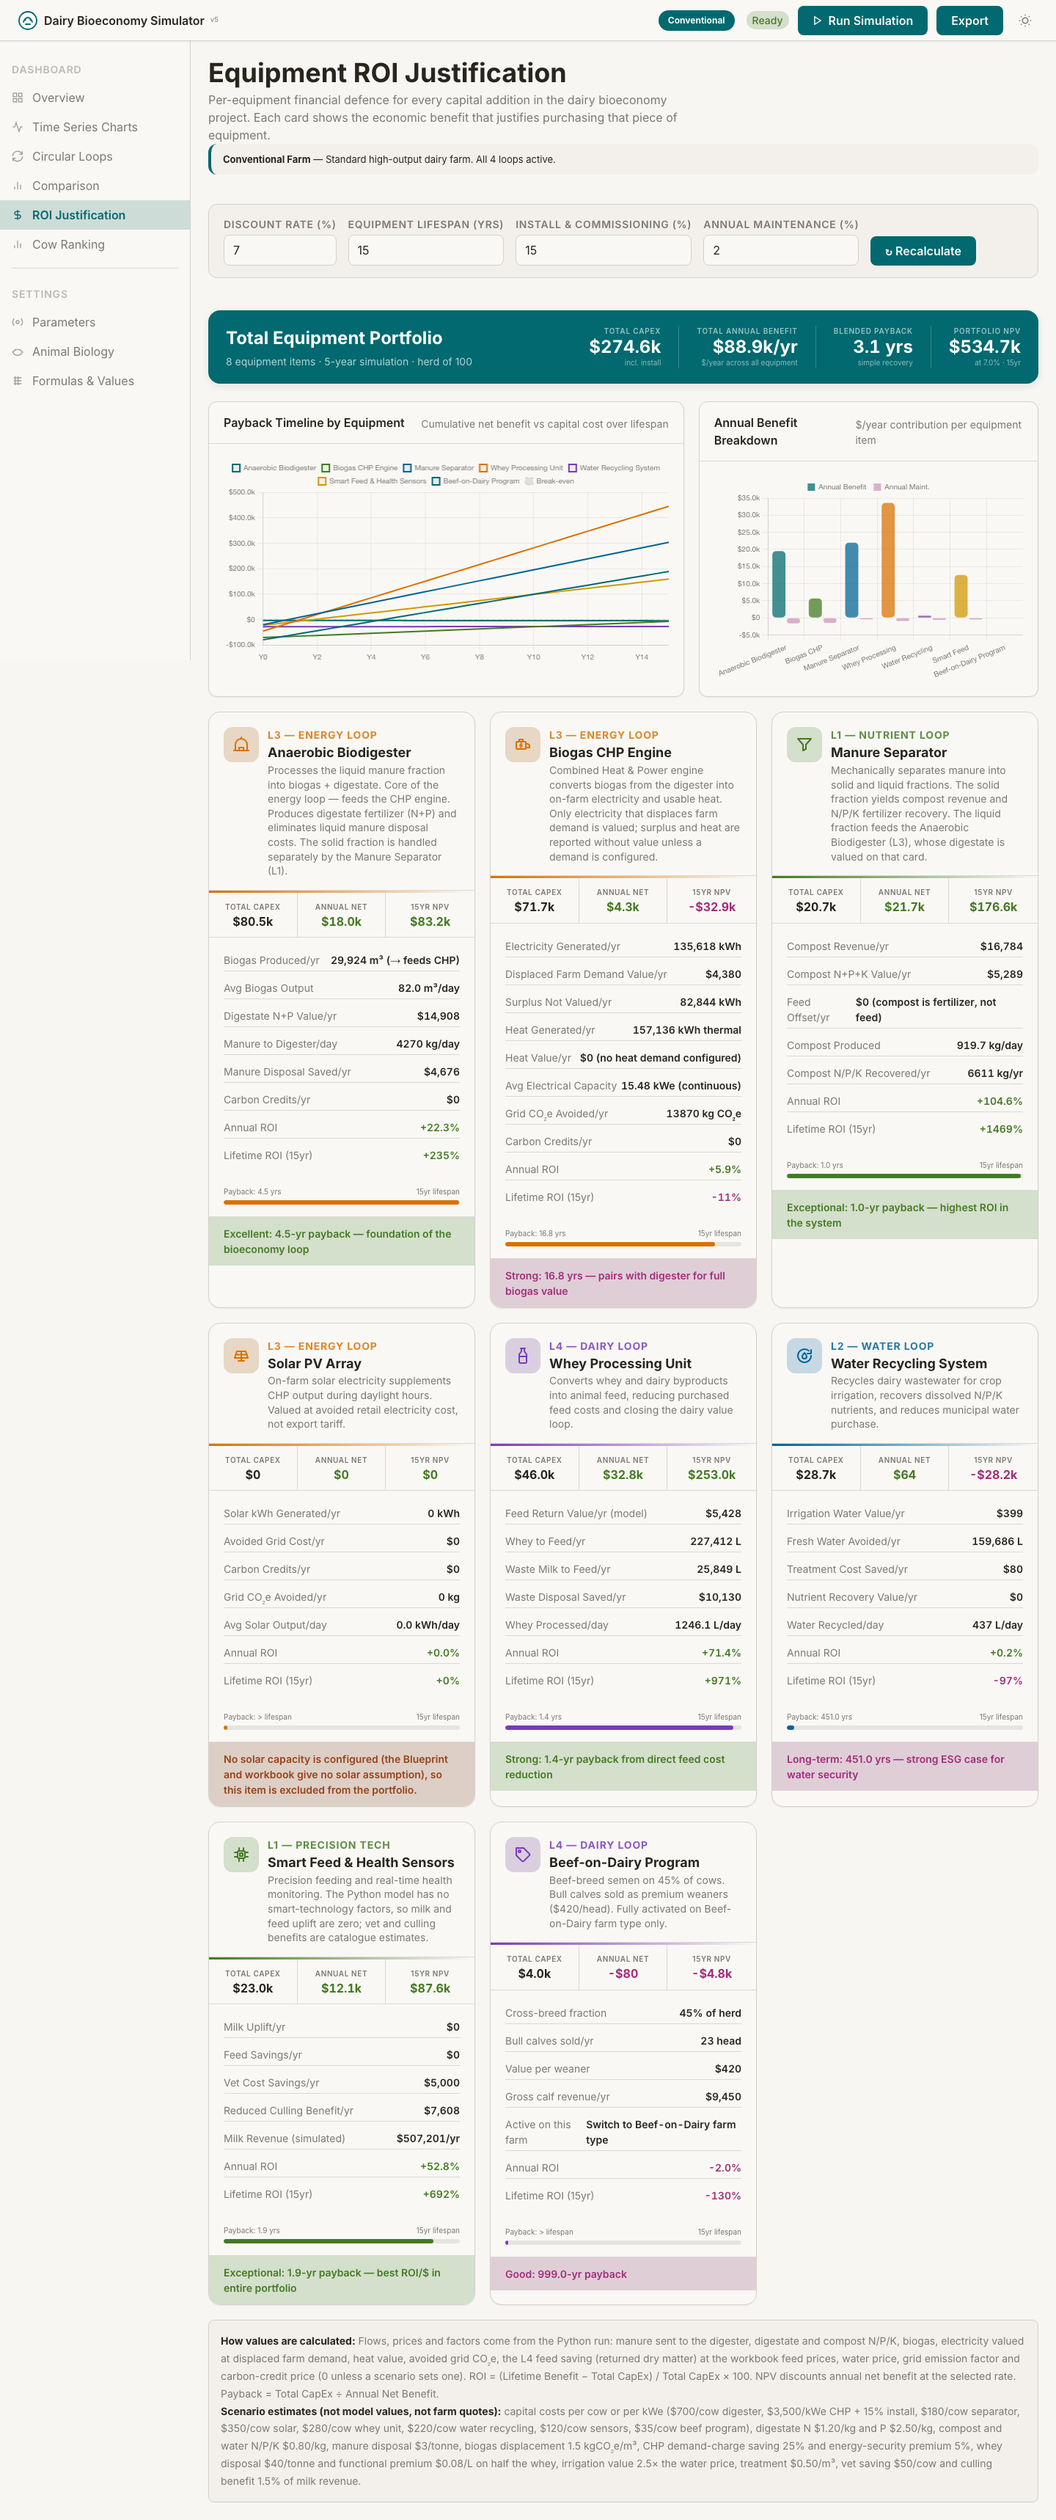
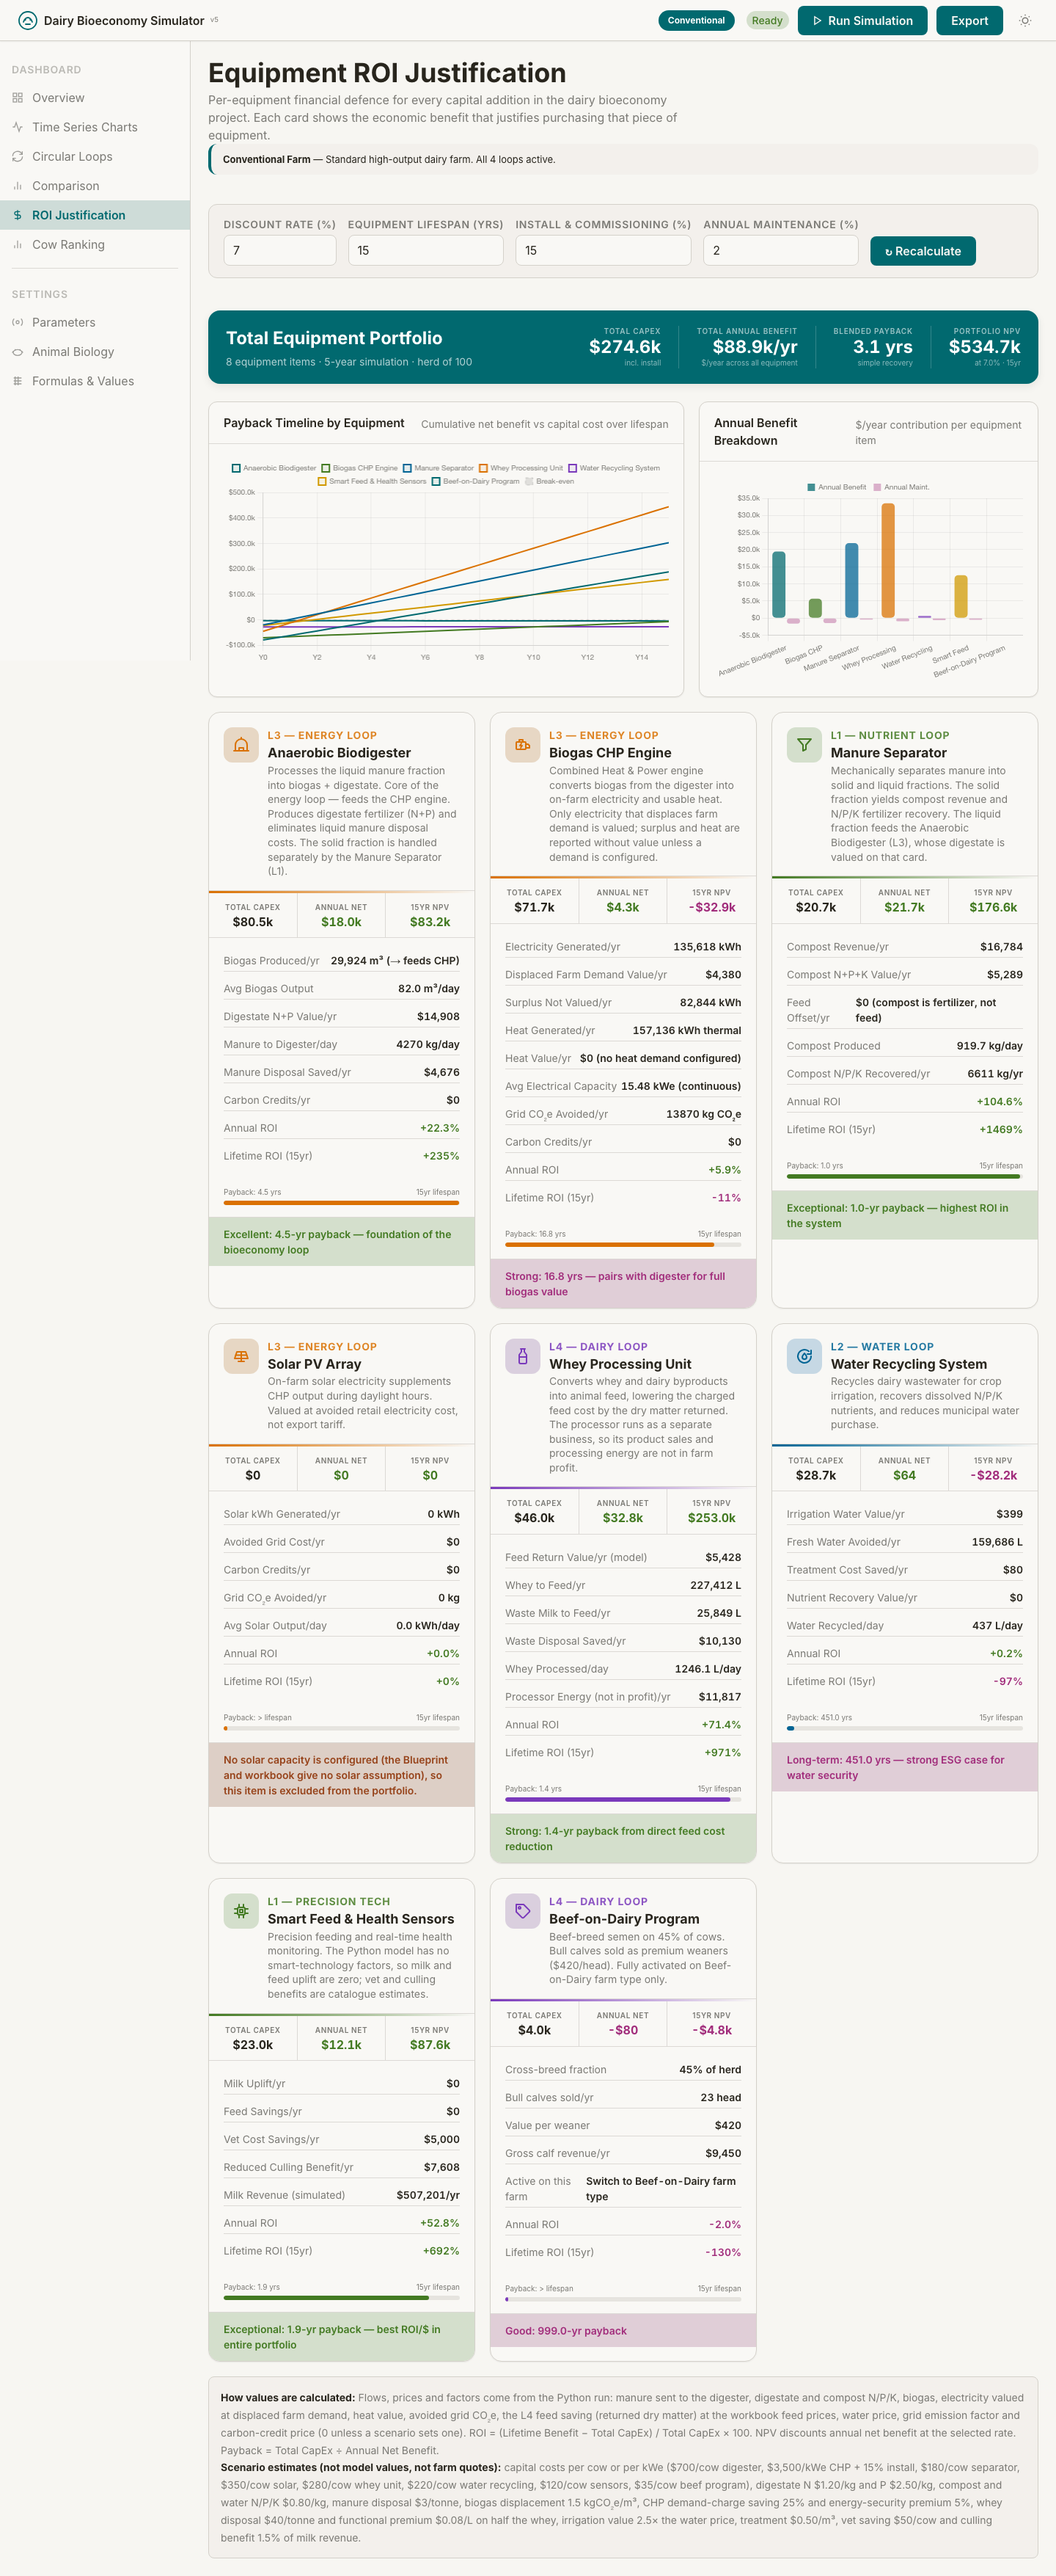
docs: record the processor-as-separate-business decision
Updates the calibration decisions, payload map, model explanation and
README for processor sales and processing energy reported outside farm
profit, and refreshes the dashboard screenshots.

Changed region(s): [[0.1875, 0.0311, 1.0, 0.9968], [0.0, 0.0311, 0.1562, 0.1557], [0.9062, 0.218, 0.9375, 0.2492]]

diff --git a/docs/calibration_review.md b/docs/calibration_review.md
@@ -19,8 +19,8 @@ Precedence is workbook, then Blueprint (`docs/parity/blueprint_extracted.txt`); 
 | Item | Decision | Source |
 |---|---|---|
 | Feed cost | The ledger charges all intake: lactating DMI x `cdairy_economics.dmi_wet_price_per_kg` (0.30) plus dry DMI x `cdairy_economics.dmi_dry_price_per_kg` (0.20). Home-grown feed carries the same price. Loop feed offsets (L4 only, see below) reduce the charged kilograms, split pro rata between lactating and dry intake. Ledger and parity path share `dairy_abm.analysis.cdairy_economics.feed_cost_rows`. | Workbook Stats_MAST!BV19, BV20; rows 28-29 |
-| Farm profit | Workbook herd economics (every Table 4 line) plus an itemized loop layer: electricity value, heat value, carbon credits, compost revenue, by-product revenue, loop feed saving, minus water, cooling, processing energy and disease cost. | Workbook Tables Table 4; Blueprint for loop items |
-| Processor revenue | Kept out of profit (`processor_revenue_not_in_profit`); farm revenue keeps the workbook milk component sales because the model has no product-side costs. The processor still runs with L4 so whey and waste milk exist. | Workbook precedence |
+| Farm profit | Workbook herd economics (every Table 4 line) plus an itemized loop layer: electricity value, heat value, carbon credits, compost revenue, by-product revenue, loop feed saving, minus water, cooling and disease cost. | Workbook Tables Table 4; Blueprint for loop items |
+| Processor (2026-09-24 decision) | The processor is treated as a separate business. Its product sales (`processor_revenue_not_in_profit`) and its processing energy (`processor_energy_cost_not_in_profit`, processing_energy_kwh x electricity price) are both reported, in the daily export and the model-details card, and neither is in farm profit. Farm revenue keeps the workbook milk component sales. Milk cooling stays in farm costs because it is a farm-side cost. No product-side costs are added because neither the workbook nor the Blueprint gives them. The processor still runs with L4 so whey and waste milk exist. | Workbook precedence; owner decision |
 | Manure routing | `manure.digester_route_fraction` 0.65, `compost_route_fraction` 0.35, `storage_route_fraction` 0.0. With L3 off the digester share goes to storage and the digester does not run (no biogas, digestate or processor residue feedstock); with L1 off the compost share goes to storage. The dashboard adapter turns off the Farm Manager's emissions-triggered reroute (an implementation rule not in the Blueprint), which otherwise sends all manure to the digester. | Target dashboard separator_solid_fraction 0.35 (owner decision); Blueprint Manure 4.2 (routing is policy-driven), Energy 2.6 (biogas_investment_active) |
 | Heat value | Not monetized. Heat is generated and reported, but no farm heat demand is configured, so `heat_value` is 0 and the UI says so. `energy.heat_value_per_kwh` (0.04, implementation) applies only if a scenario sets `farm_heat_demand_mj_per_day`. | Blueprint Energy 8.5, 2.7, 8.7 (no heat demand, recovery fraction or price); owner decision |
 | Farm electricity demand | `energy.farm_energy_demand_kwh_per_day` = 100 kWh/day stays an unsourced implementation assumption and is labelled as such. Only displaced demand is valued; surplus (about 226 kWh/day for the default farm) is reported as `surplus_energy_kwh`. | Blueprint Energy 8.2, 9, 10 (demand needs external calibration; monetize displaced share only); owner decision |
@@ -38,7 +38,6 @@ Precedence is workbook, then Blueprint (`docs/parity/blueprint_extracted.txt`); 
 
 Findings that need review but were not changed:
 
-- With product sales outside profit, L4 now nets about -$64 per cow per year for the default farm: a $55 feed saving against $118 of processing energy (`dairy_processor.processing_energy_kwh_per_l_milk`, 0.08 kWh/L, implementation). Charging the processing energy of a plant whose revenue is excluded may need a policy decision.
 - The Farm Manager's automatic feed response compares purchased-feed cash (`feed_crop_packet.feed_cost`, normally 0 because home-grown feed covers intake) with a fixed $500/day trigger; it was left on purchased cash so its behaviour did not change.
 - The processor's `dairy_return_feed_packet` still offers `feed_eligible_kg_dm` = 0.08 kg DM per litre (scenario default) as a separate supply to Feed/Crop. It is used only when own-farm feed runs short, which does not happen in the default farm, but it is a second valuation of the same whey.
 

diff --git a/docs/dashboard_metric_map.md b/docs/dashboard_metric_map.md
@@ -10,8 +10,8 @@ Historical Phase 1 inventory for the earlier twelve-page dashboard. The current 
 
 - `totals.herdRevenue`, `totals.herdCost`, `totals.herdProfit`: the Cdairy workbook herd economics (every Table 4 line) accumulated daily from the same herd statistics `annual_excel_economics` prices; with all loops off they equal it for each complete year. `totals.workbookFeedCost` is Stats_MAST rows 28-29 (all lactating and dry DMI at the workbook prices, home-grown feed included); `totals.otherHerdCost` is the rest of the herd cost.
 - `feedCost` is the charged feed cost: `workbookFeedCost - loopFeedSaving`. `loopFeedSaving` values the L4 feed offset (dry matter of whey and waste milk sent to feed) at the workbook prices; `l1FeedSaving` is 0 because the Blueprint defines no L1 feed offset. `fertilizerNSaved` and `fertilizerOffsetCO2e` report the avoided synthetic fertilizer (not monetized: no fertilizer price). `purchasedFeedCost` is the physical purchased-feed cash flow, kept for reference.
-- `totals.loopLines` lists the circular-loop layer: `electricityValue`, `heatValue`, `carbonCredits`, `compostRevenue`, `loopFeedSaving`, and the negative `waterCost`, `coolingCost`, `processingEnergyCost`, `diseaseCost`. `profit = herdProfit + loopNet`.
-- `processorRevenueNotInProfit` is the processor's product sales. It is reported only; profit keeps the workbook milk component sales because the model has no product-side costs. The processor runs with L4 so whey and waste milk exist for the by-product loop.
+- `totals.loopLines` lists the circular-loop layer: `electricityValue`, `heatValue`, `carbonCredits`, `compostRevenue`, `loopFeedSaving`, and the negative `waterCost`, `coolingCost`, `diseaseCost`. `profit = herdProfit + loopNet`.
+- `processorRevenueNotInProfit` and `processorEnergyCostNotInProfit` are the processor's product sales and processing energy. The processor is treated as a separate business, so both are reported (also in `modelDetails` and the daily export) and neither is in profit; profit keeps the workbook milk component sales. The processor runs with L4 so whey and waste milk exist for the by-product loop.
 - `surplusElec`, `displacedElec`, `farmElecDemand`: electricity is valued only up to the farm demand (implementation assumption, 100 kWh/day); the surplus is reported without value (Blueprint Energy 10). `heatDemand` is 0, so `heatVal` is 0 while `heat` is generated (Blueprint Energy 8.5).
 - `digesterManure`, `compostManure`, `digestateN/P/K`: manure routed to the digester and to compost, and digestate nutrients, used by the ROI page instead of back-calculated flows.
 - `notes` carries the on-screen reasons for series that are zero by design (`heatVal`, `solar`, `carbon`) and the energy-value limit (`energyVal`).
@@ -338,7 +338,7 @@ The current authoritative per-cow record is `ctx.packets["cow_daily_packet"].pay
 | Water cost | `ctx.daily_records` | `water_cost` | daily/run | currency | sum | `EXISTING` | Direct manager output. |
 | Disease economic cost | `ctx.daily_records` | `disease_economic_cost` | daily/run | currency | sum | `EXISTING` | Use this available category. |
 | Cooling cost | `ctx.daily_records` | `cooling_cost` | daily/run | currency | sum | `EXISTING` | Direct manager output. |
-| Processing energy cost | `ctx.daily_records` | `processing_energy_cost` | daily/run | currency | sum | `EXISTING` | Direct manager output. |
+| Processor energy cost (not in profit) | `ctx.daily_records` | `processor_energy_cost_not_in_profit` | daily/run | currency | sum | `EXISTING` | Reported beside processor revenue; excluded from farm profit (separate business). |
 | Carbon-credit revenue/value | `ctx.state["environment_history"]` | `carbon_credit_value` | daily/run | currency | sum | `BACKEND_EXPOSE` | Joined by date from the retained environment history; never inferred from GHG totals. |
 | Treatment cost | `ctx.state["disease_history"]` | `treatment_cost` | daily/run | currency | sum | `BACKEND_EXPOSE` | Kept distinct from outbreak/disease economic cost. |
 | Cumulative profit | dashboard adapter | daily `profit` | run | currency | cumulative sum | `BACKEND_AGGREGATE` | Python retains the cumulative series and final value. |

diff --git a/docs/explanation.md b/docs/explanation.md
@@ -144,7 +144,7 @@ The current runtime has 13 agent modules. Twelve are part of the normal system; 
 | **Manure** | Splits manure into digester, compost, and storage routes; tracks collection, overflow, persistent storage, N/P/K, methane/N2O-related flows, co-feed, thermochemical paths, and nutrient returns. |
 | **Energy** | Converts eligible biogas and thermochemical inputs into energy using CHP, electricity, or boiler modes. It also models solar, parasitic load, demand capping, grid displacement, heat, self-sufficiency, and energy value. |
 | **Environment** | Maintains the stream-level greenhouse-gas ledger, including positive emissions and avoided emissions. Reports net carbon, intensity, circularity, soil/fertilizer metrics, sustainability, and cumulative/monthly KPIs. |
-| **Farm Manager reporting** | Combines revenue, feed and operating costs, disease costs, cooling/processing energy costs, energy value, carbon credits, cash balance, profit, policy conflicts, recommendations, investments, ROI, and payback. |
+| **Farm Manager reporting** | Combines revenue, feed and operating costs, disease costs, milk cooling cost, processor sales and energy reported outside profit, energy value, carbon credits, cash balance, profit, policy conflicts, recommendations, investments, ROI, and payback. |
 | **Genetics** | Records daily intake quality, calculates merit and eligibility, selects parents, creates prospective offspring trait vectors, and produces annual breeding/genetic-gain reports. |
 
 ## 6. Daily execution order
@@ -186,7 +186,7 @@ The model represents four circular loops explicitly:
 - **L3 energy loop:** the switch decides whether the digester runs at all (Blueprint Energy 2.6, `biogas_investment_active`). With L3 off the liquid share goes to storage and biogas, digestate and electricity are 0. It does not alter Feed/Crop mass inputs.
 - **L4 dairy-byproduct loop:** whey and waste milk sent to feed become a next-day feed credit equal to their dry matter (whey x dry whey yield, waste milk x fat + SNF) when processor and whey processing are active.
 
-Farm profit has two layers. The herd layer is the Cdairy workbook economics (every Table 4 line), priced daily from the herd statistics with `dairy_abm.analysis.cdairy_economics`; feed is charged on all lactating and dry-cow intake at the workbook prices, home-grown feed included. The loop layer is itemized: electricity value (displaced farm demand only), heat value (0 unless a farm heat demand is configured), carbon credits, compost revenue, by-product revenue, and the L4 feed saving (returned dry matter at the workbook prices), minus water, cooling, processing energy and disease costs. Processor product sales are reported as `processor_revenue_not_in_profit` and are not added to profit. With every loop off, the herd layer equals `annual_excel_economics` for each complete year.
+Farm profit has two layers. The herd layer is the Cdairy workbook economics (every Table 4 line), priced daily from the herd statistics with `dairy_abm.analysis.cdairy_economics`; feed is charged on all lactating and dry-cow intake at the workbook prices, home-grown feed included. The loop layer is itemized: electricity value (displaced farm demand only), heat value (0 unless a farm heat demand is configured), carbon credits, compost revenue, by-product revenue, and the L4 feed saving (returned dry matter at the workbook prices), minus water, cooling and disease costs. The processor is treated as a separate business: its product sales (`processor_revenue_not_in_profit`) and processing energy (`processor_energy_cost_not_in_profit`) are reported but not in farm profit; milk cooling stays a farm cost. With every loop off, the herd layer equals `annual_excel_economics` for each complete year.
 
 The one-day delay is intentional. It prevents same-day feedback and preserves the fixed scheduler order. Credits are persistent in `SimulationContext`, consumed once by Feed/Crop, and reported in daily records.
 

diff --git a/README.md b/README.md
@@ -90,7 +90,7 @@ The local server opens the Conventional Farm dashboard directly. Its nine pages 
 
 Forty target controls are mapped to Python inputs, including herd size, duration, seed, feed cost, lactation and body-weight parameters, manure separator split, biogas and compost yield, solar, methane factor, grid emission factor, cull rate and milk-processing shares; each one changes the run. Target controls without an equivalent model input stay visible and disabled with the tooltip "Not used by the Python model" (the full lists are in `docs/dashboard_metric_map.md`). The Comparison page runs the 16 loop combinations on the server and displays the saved eight-seed Excel parity results. The ROI page keeps the target's equipment cards but takes every price, factor and flow the model has from the run; the remaining catalogue constants are listed as scenario estimates, not farm quotes. Cow Ranking uses retained model cow histories. Parameters includes read-only model details.
 
-Net profit is the workbook herd economics plus an itemized circular-loop layer. Feed is charged on all intake at the workbook prices (Stats_MAST rows 28-29), including home-grown feed, and the L4 by-product feed credit (dry matter of whey and waste milk) lowers that charge; L1 returns nutrients to cropland rather than feed. Processor product sales are shown separately and are not part of profit. Electricity is valued only up to the farm demand, with surplus kWh reported; heat is reported but not valued because no farm heat demand is configured; no solar capacity is configured by default. These limits are stated on the dashboard cards. Water, nutrient, and byproduct labels retain their source units; unavailable values are shown as unavailable rather than converted without a coefficient.
+Net profit is the workbook herd economics plus an itemized circular-loop layer. Feed is charged on all intake at the workbook prices (Stats_MAST rows 28-29), including home-grown feed, and the L4 by-product feed credit (dry matter of whey and waste milk) lowers that charge; L1 returns nutrients to cropland rather than feed. The processor is treated as a separate business: its product sales and processing energy are shown separately and are not part of profit (milk cooling stays a farm cost). Electricity is valued only up to the farm demand, with surplus kWh reported; heat is reported but not valued because no farm heat demand is configured; no solar capacity is configured by default. These limits are stated on the dashboard cards. Water, nutrient, and byproduct labels retain their source units; unavailable values are shown as unavailable rather than converted without a coefficient.
 
 Formulas & Values is a static, read-only reference. It shows the scheduler order, all 315 current calibration entries with their metadata, scenario and genetics values, 779 indexed Python calculations, 505 dashboard expression lines, 2,039 Python numeric/Boolean literals, 969 dashboard code-number occurrences, and the exact source text of 39 model, dashboard, server, and configuration files. The source view is the complete reference when a calculation spans several statements. Regenerate the checked-in snapshot after changing those files:
 
